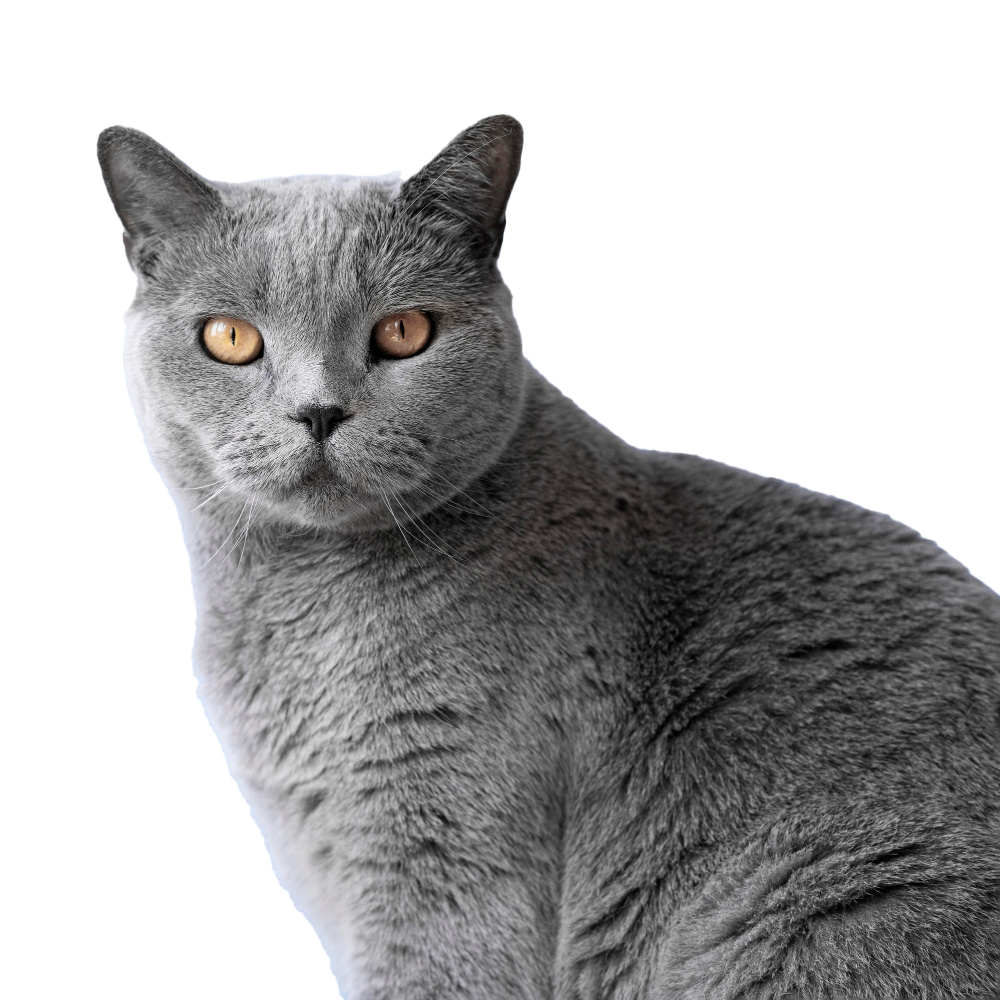
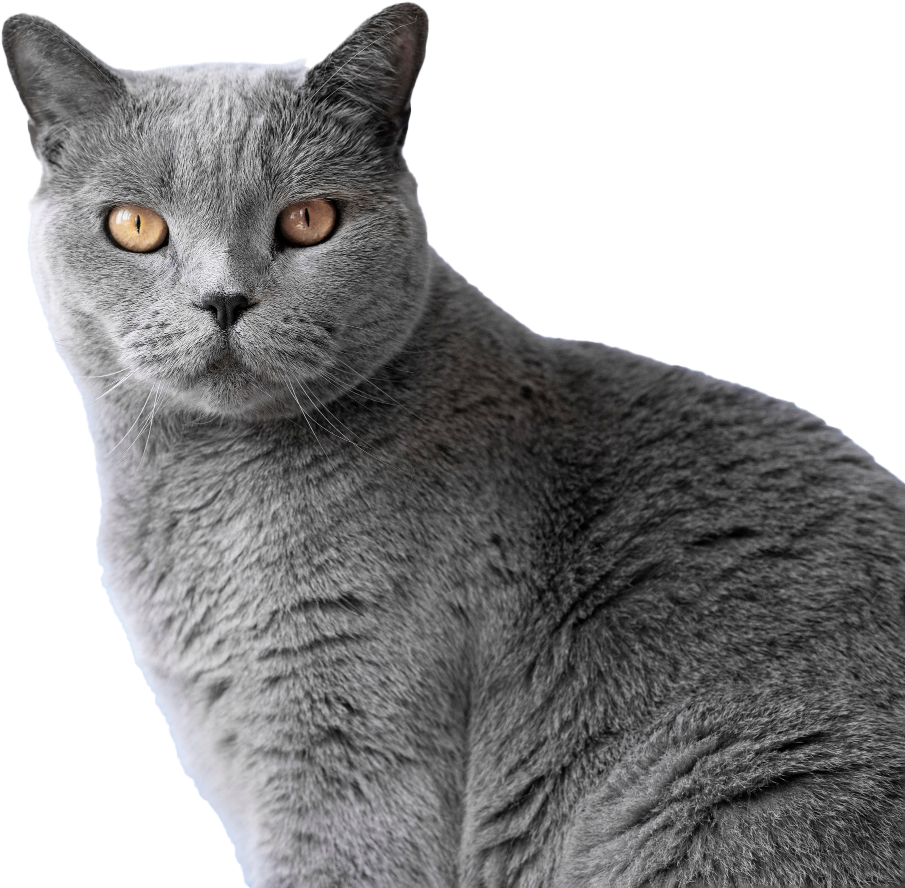
добавлено облако

diff --git a/style.css b/style.css
@@ -18,14 +18,21 @@ span {
     margin-bottom: 10px;
 }
 
+p {
+    font-size: 14px;
+    margin-bottom: 30px;
+}
+
 .container {
     background: white;
-    margin: 40px auto;
-    width: 1450px;
+    margin: 20px auto;
+    width: 1250px;
     border-radius: 20px;
     box-shadow: 0 4px 10px rgba(0, 0, 0, 0.2);
-    padding: 20px 20px 20px 100px;
+    padding: 20px 50px 0 100px; /* Увеличиваем правый padding с 0 до 50px */
     box-sizing: border-box;
+    position: relative;
+    overflow: hidden;
 }
 
 .navbar {
@@ -44,14 +51,14 @@ span {
 }
 
 .logo-text {
-    font-size: 24px;
+    font-size: 15px;
     font-weight: bold;
-    line-height: 1; /* Убираем стандартный межстрочный интервал */
+    line-height: 1;
     display: flex;
-    align-items: center; /* Выравниваем по вертикали */
-    height: 100%; /* Занимаем всю высоту родителя */
-    margin: 0; /* Убираем возможные отступы */
-    padding: 0; /* Убираем возможные внутренние отступы */
+    align-items: center;
+    height: 100%;
+    margin: 0;
+    padding: 0;
 }
 
 .icon {
@@ -64,6 +71,7 @@ nav ul {
     gap: 40px;
     padding: 0;
     margin: 0;
+    font-size: 12px;
 }
 
     nav ul li a {
@@ -84,43 +92,73 @@ nav ul {
 .hero {
     display: flex;
     justify-content: space-between;
-    align-items: center;
-    padding: 50px;
-    padding-left: 50px;
+    align-items: flex-start;
+    padding: 30px 50px;
+    padding-bottom: 0;
+    gap: 20px;
+    position: relative;
 }
+
+.hero-image {
+    position: absolute;
+    right: -20px;
+    bottom: 0;
+    margin-left: -50px;
+    margin-top: -20px;
+    align-self: flex-start;
+}
+
+    .hero-image img {
+        width: 570px;
+        height: auto;
+        object-fit: contain;
+        display: block;
+    }
 
 .hero-content {
     max-width: 500px;
     text-align: left;
+    padding-top: 0;
 }
 
 h1 {
-    font-size: 48px;
+    font-size: 65px;
     font-weight: bold;
     margin: 0;
+    margin-bottom: 20px;
 }
 
 .buttons {
-    margin: 20px 0;
+    margin-bottom: 30px;
 }
+
+    .buttons a {
+        text-decoration: none;
+        color: inherit;
+        font-size: 14px;
+    }
+
+        .buttons a:visited {
+            color: inherit;
+        }
+
+        .buttons a:hover {
+            text-decoration: none;
+        }
 
 .book-btn {
     background: #ffd52b;
     border: none;
-    padding: 10px 20px;
-    border-radius: 20px;
+    padding: 5px 5px;
+    padding-left: 20px;
+    padding-right: 20px;
+    border-radius: 40px;
     font-weight: bold;
-    margin-right: 10px;
+    margin-right: 15px;
     cursor: pointer;
+    height: 50px;
+    font-size: 14px;
 }
-
-.hero-image {
-    position: relative;
-}
-
-    .hero-image img {
-        width: 300px;
-    }
 
 .play-button {
     position: absolute;
@@ -132,12 +170,13 @@ h1 {
     font-weight: bold;
 }
 
-/* Карусель */
+/* Обновленные стили карусели */
 .carousel {
     position: relative;
     width: 100%;
-    max-width: 600px;
-    margin: 20px auto;
+    max-width: 395px;
+    margin: 5px auto 0;
+    margin-bottom: 50px;
 }
 
 .carousel-track-container {
@@ -147,45 +186,45 @@ h1 {
 .carousel-track {
     display: flex;
     transition: transform 0.5s ease;
-    gap: 15px;
+    gap: 10px;
     padding: 5px 0;
 }
 
 .carousel-slide {
-    flex: 0 0 120px;
-    height: 120px;
+    flex: 0 0 90px;
+    height: 90px;
     display: flex;
     flex-direction: column;
     align-items: center;
     justify-content: center;
     background: white;
-    border-radius: 30px;
+    border-radius: 20px;
     box-shadow: 0 4px 6px rgba(0, 0, 0, 0.2);
 }
 
     .carousel-slide img {
-        width: 50px;
-        height: 40px;
+        width: 35px;
+        height: 30px;
         object-fit: contain;
-        margin-bottom: 8px;
+        margin-bottom: 5px;
     }
 
 .service-item {
-    font-size: 14px;
+    font-size: 12px;
     font-weight: bold;
-    padding: 0 5px;
+    padding: 0 3px;
     white-space: nowrap;
     overflow: hidden;
     text-overflow: ellipsis;
-    max-width: 100px;
+    max-width: 80px;
 }
 
 .carousel-button {
     position: absolute;
     top: 50%;
     transform: translateY(-50%);
-    width: 40px;
-    height: 40px;
+    width: 25px;
+    height: 25px;
     background: rgba(118, 202, 227, 0.9);
     color: white;
     border: none;
@@ -193,17 +232,17 @@ h1 {
     display: flex;
     align-items: center;
     justify-content: center;
-    font-size: 20px;
+    font-size: 16px;
     cursor: pointer;
     z-index: 10;
 }
 
     .carousel-button.prev {
-        left: -20px;
+        left: -15px;
     }
 
     .carousel-button.next {
-        right: -20px;
+        right: -15px;
     }
 
     .carousel-button:hover {
@@ -219,4 +258,13 @@ footer {
     margin: 0 10px;
     color: black;
     font-weight: bold;
+}
+
+.cloud {
+    position: absolute;
+    right: -50px;
+    bottom: 0;
+    width: 500px;
+    z-index: 2;
+    transition: transform 0.1s ease-out;
 }

diff --git a/index.html b/index.html
@@ -27,8 +27,8 @@
         </header>
         <section class="hero">
             <div class="hero-content">
-                <h1>Paws-itively the Best Pet Care in Town</h1>
-                <p>Whether you're headed for a vacation, need a day to yourself, or simply want to treat your pet to some extra TLC, our pet care center is the destination of choice.</p>
+                <h1>Paws-itively <br /> the Best Pet<br /> Care in Town</h1>
+                <p>Whether you're headed for a vacation, need a day to<br /> yourself, or simply want to treat your pet to some extra<br /> TLC, our pet care center is the destination of choice.</p>
                 <div class="buttons">
                     <button class="book-btn">Book Appointment</button>
                     <a href="#">Learn more <span>▶</span></a>
@@ -74,8 +74,8 @@
                     </div>
                     <button class="carousel-button next">›</button>
                 </div>
-
             </div>
+            <img class="cloud" src="pictures/сloud.png" alt="Cloud">
             <div class="hero-image">
                 <img src="pictures/cat_png.png" alt="Cute Grey Cat">
                 <div class="play-button">▶ Watch Our Video</div>
